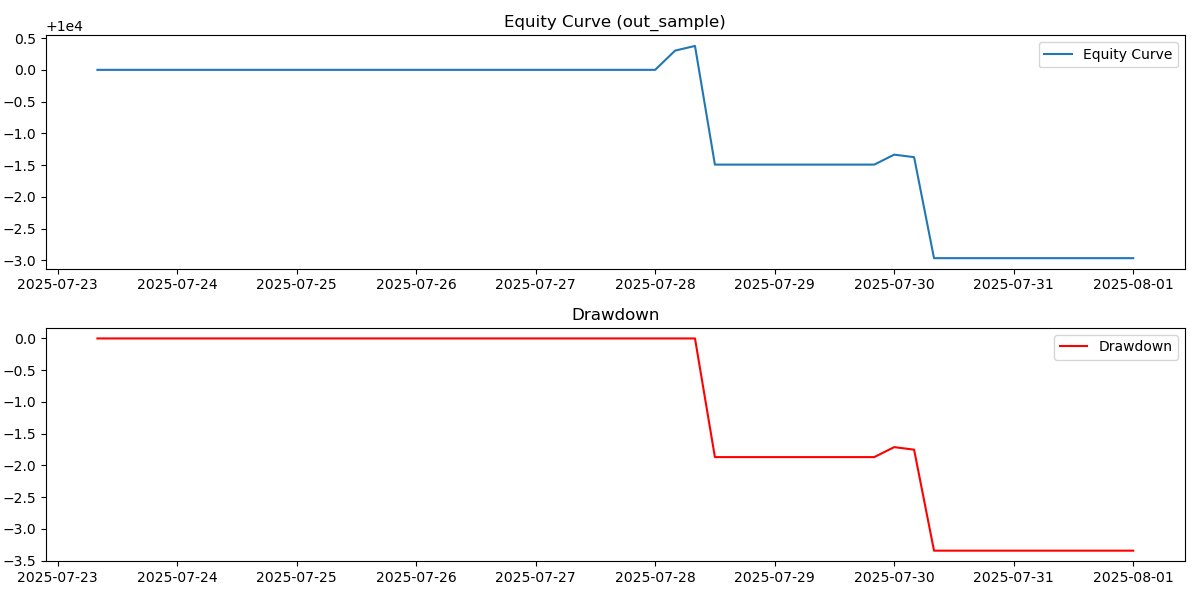
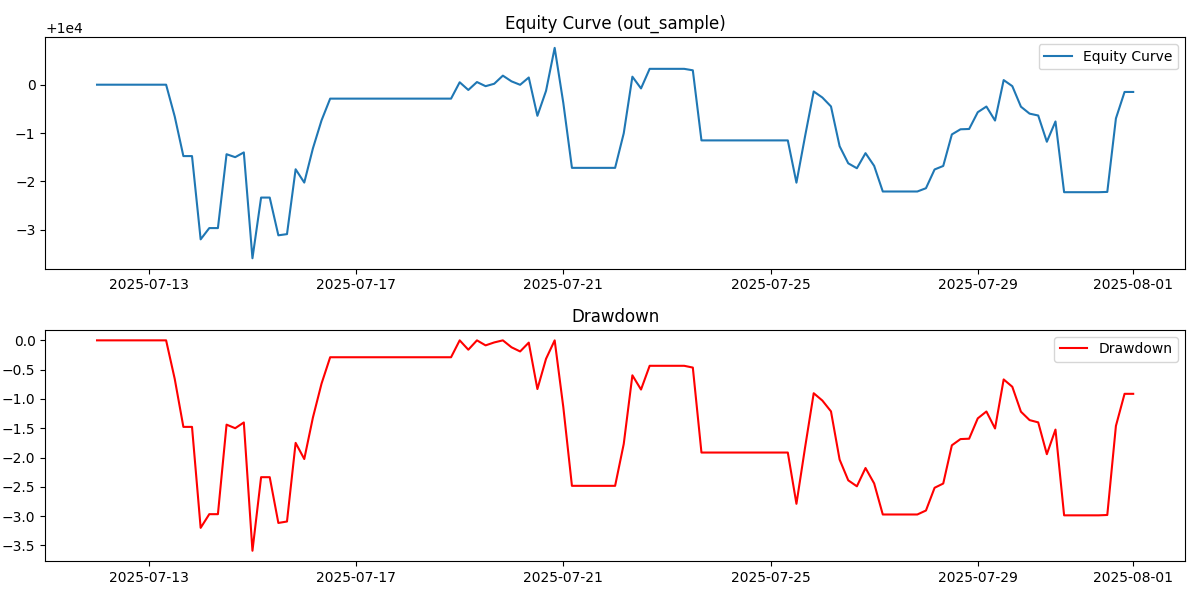
Initial analysis and baseline testing of SMCFVGLooseStrategy

diff --git a/broker/mock_broker.py b/broker/mock_broker.py
@@ -1,0 +1,36 @@
+import pandas as pd
+import os
+
+class MockBroker:
+    """Mock broker for backtesting that uses local CSV data"""
+    
+    def __init__(self, config, logger):
+        self.logger = logger
+        self.config = config
+        
+    def get_historical_klines(self, symbol, interval, start_str, end_str=None):
+        """Load data from local CSV file"""
+        try:
+            # Use the existing CSV file
+            csv_path = "BTCUSDT_4h_ohlcv.csv"
+            if os.path.exists(csv_path):
+                data = pd.read_csv(csv_path)
+                data["timestamp"] = pd.to_datetime(data["timestamp"])
+                data.set_index("timestamp", inplace=True)
+                
+                # Filter by date range if specified
+                if start_str:
+                    start_date = pd.to_datetime(start_str)
+                    data = data[data.index >= start_date]
+                
+                if end_str:
+                    end_date = pd.to_datetime(end_str)
+                    data = data[data.index <= end_date]
+                
+                return data[["open", "high", "low", "close", "volume"]].astype(float)
+            else:
+                self.logger.error(f"CSV file {csv_path} not found")
+                return None
+        except Exception as e:
+            self.logger.error(f"Error loading data from CSV: {e}")
+            return None

diff --git a/main.py b/main.py
@@ -1,5 +1,6 @@
 import yaml
 from broker.binance import BinanceBroker
+from broker.mock_broker import MockBroker
 from strategy.smc_imbalance_orderblock import SMCImbalanceOrderBlockStrategy
 from strategy.smc_orderblock import SMCOrderBlockStrategy
 from strategy.smc_fvg_bounce_strategy import SMCFVGStrategy
@@ -20,7 +21,8 @@ def main():
     logger = get_logger(config["logging"])
     risk_manager = RiskManager(config["risk"], logger)
 
-    broker = BinanceBroker(config["broker"], logger)
+    # Use mock broker for backtesting to avoid network issues
+    broker = MockBroker(config["broker"], logger)
 
     strategy = SMCFVGLooseStrategy(config["strategy"], broker)
 
@@ -30,7 +32,7 @@ def main():
         orig_get_historical_klines = broker.get_historical_klines
         def get_historical_klines_with_index(symbol, timeframe, start, end):
             df = orig_get_historical_klines(symbol, timeframe, start, end)
-            if "timestamp" in df.columns:
+            if df is not None and "timestamp" in df.columns:
                 df = df.set_index("timestamp")
             return df
         broker.get_historical_klines = get_historical_klines_with_index
